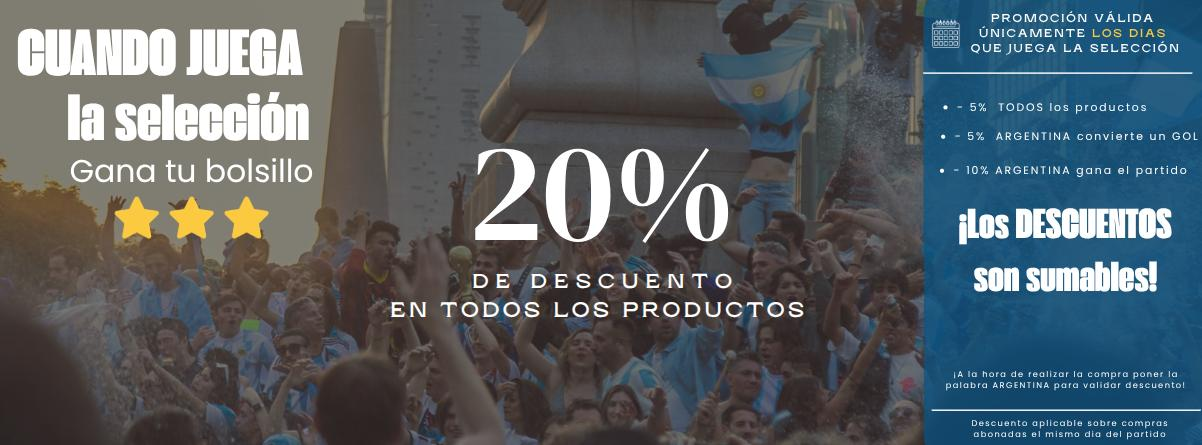
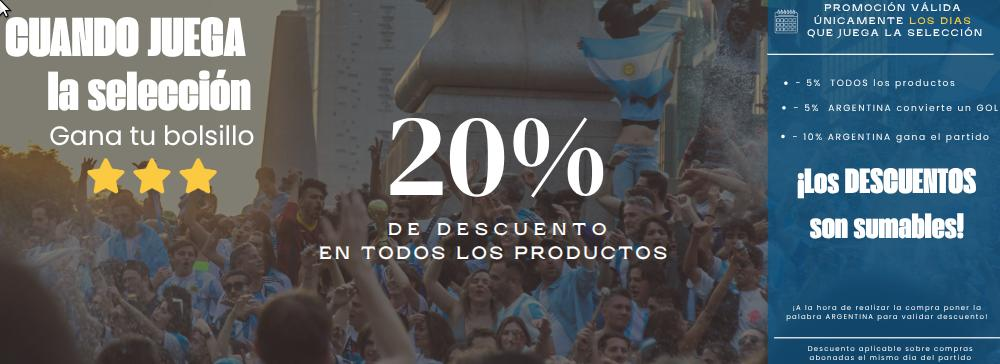
Reforma de la web 2.1

diff --git a/style.css b/style.css
@@ -260,7 +260,7 @@ a, a:visited, a:active, a:focus {
 .carrusel-track {
     display: flex;
     width: 100%;
-    transition: transform 0.5s ease-in-out; 
+    transition: transform 2s ease-in-out; 
 }
 
 .slide-banner {
